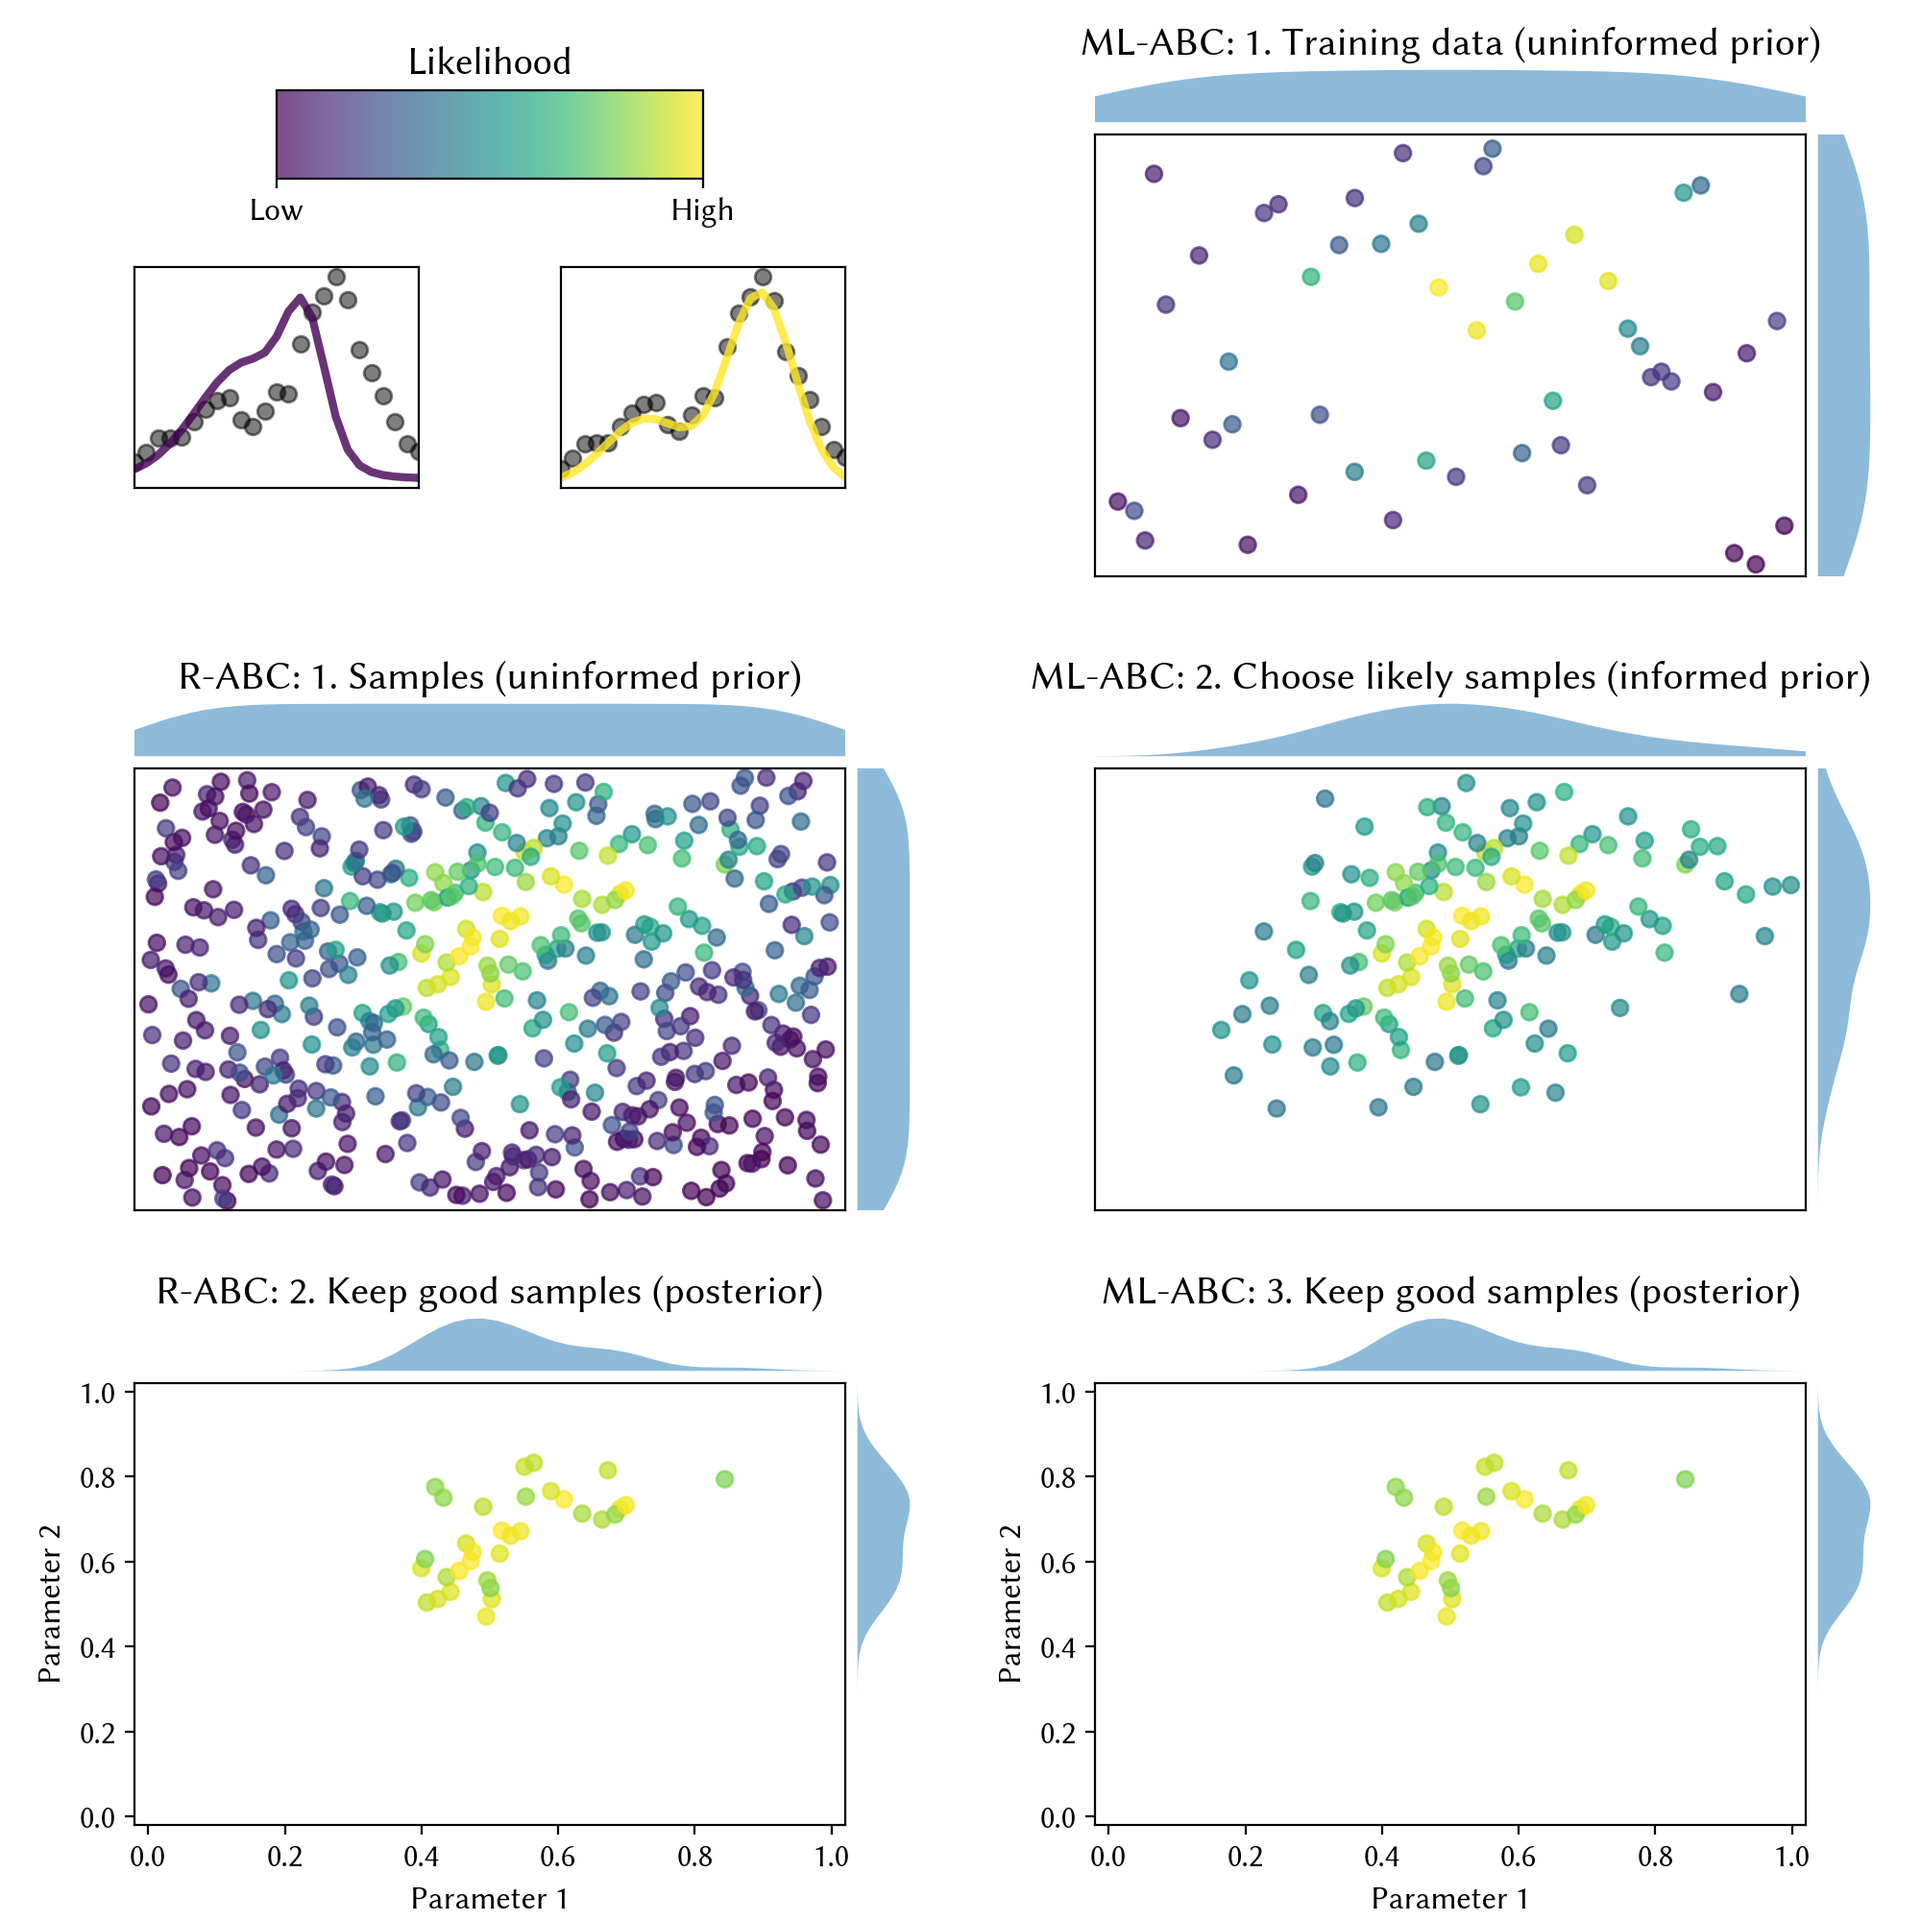
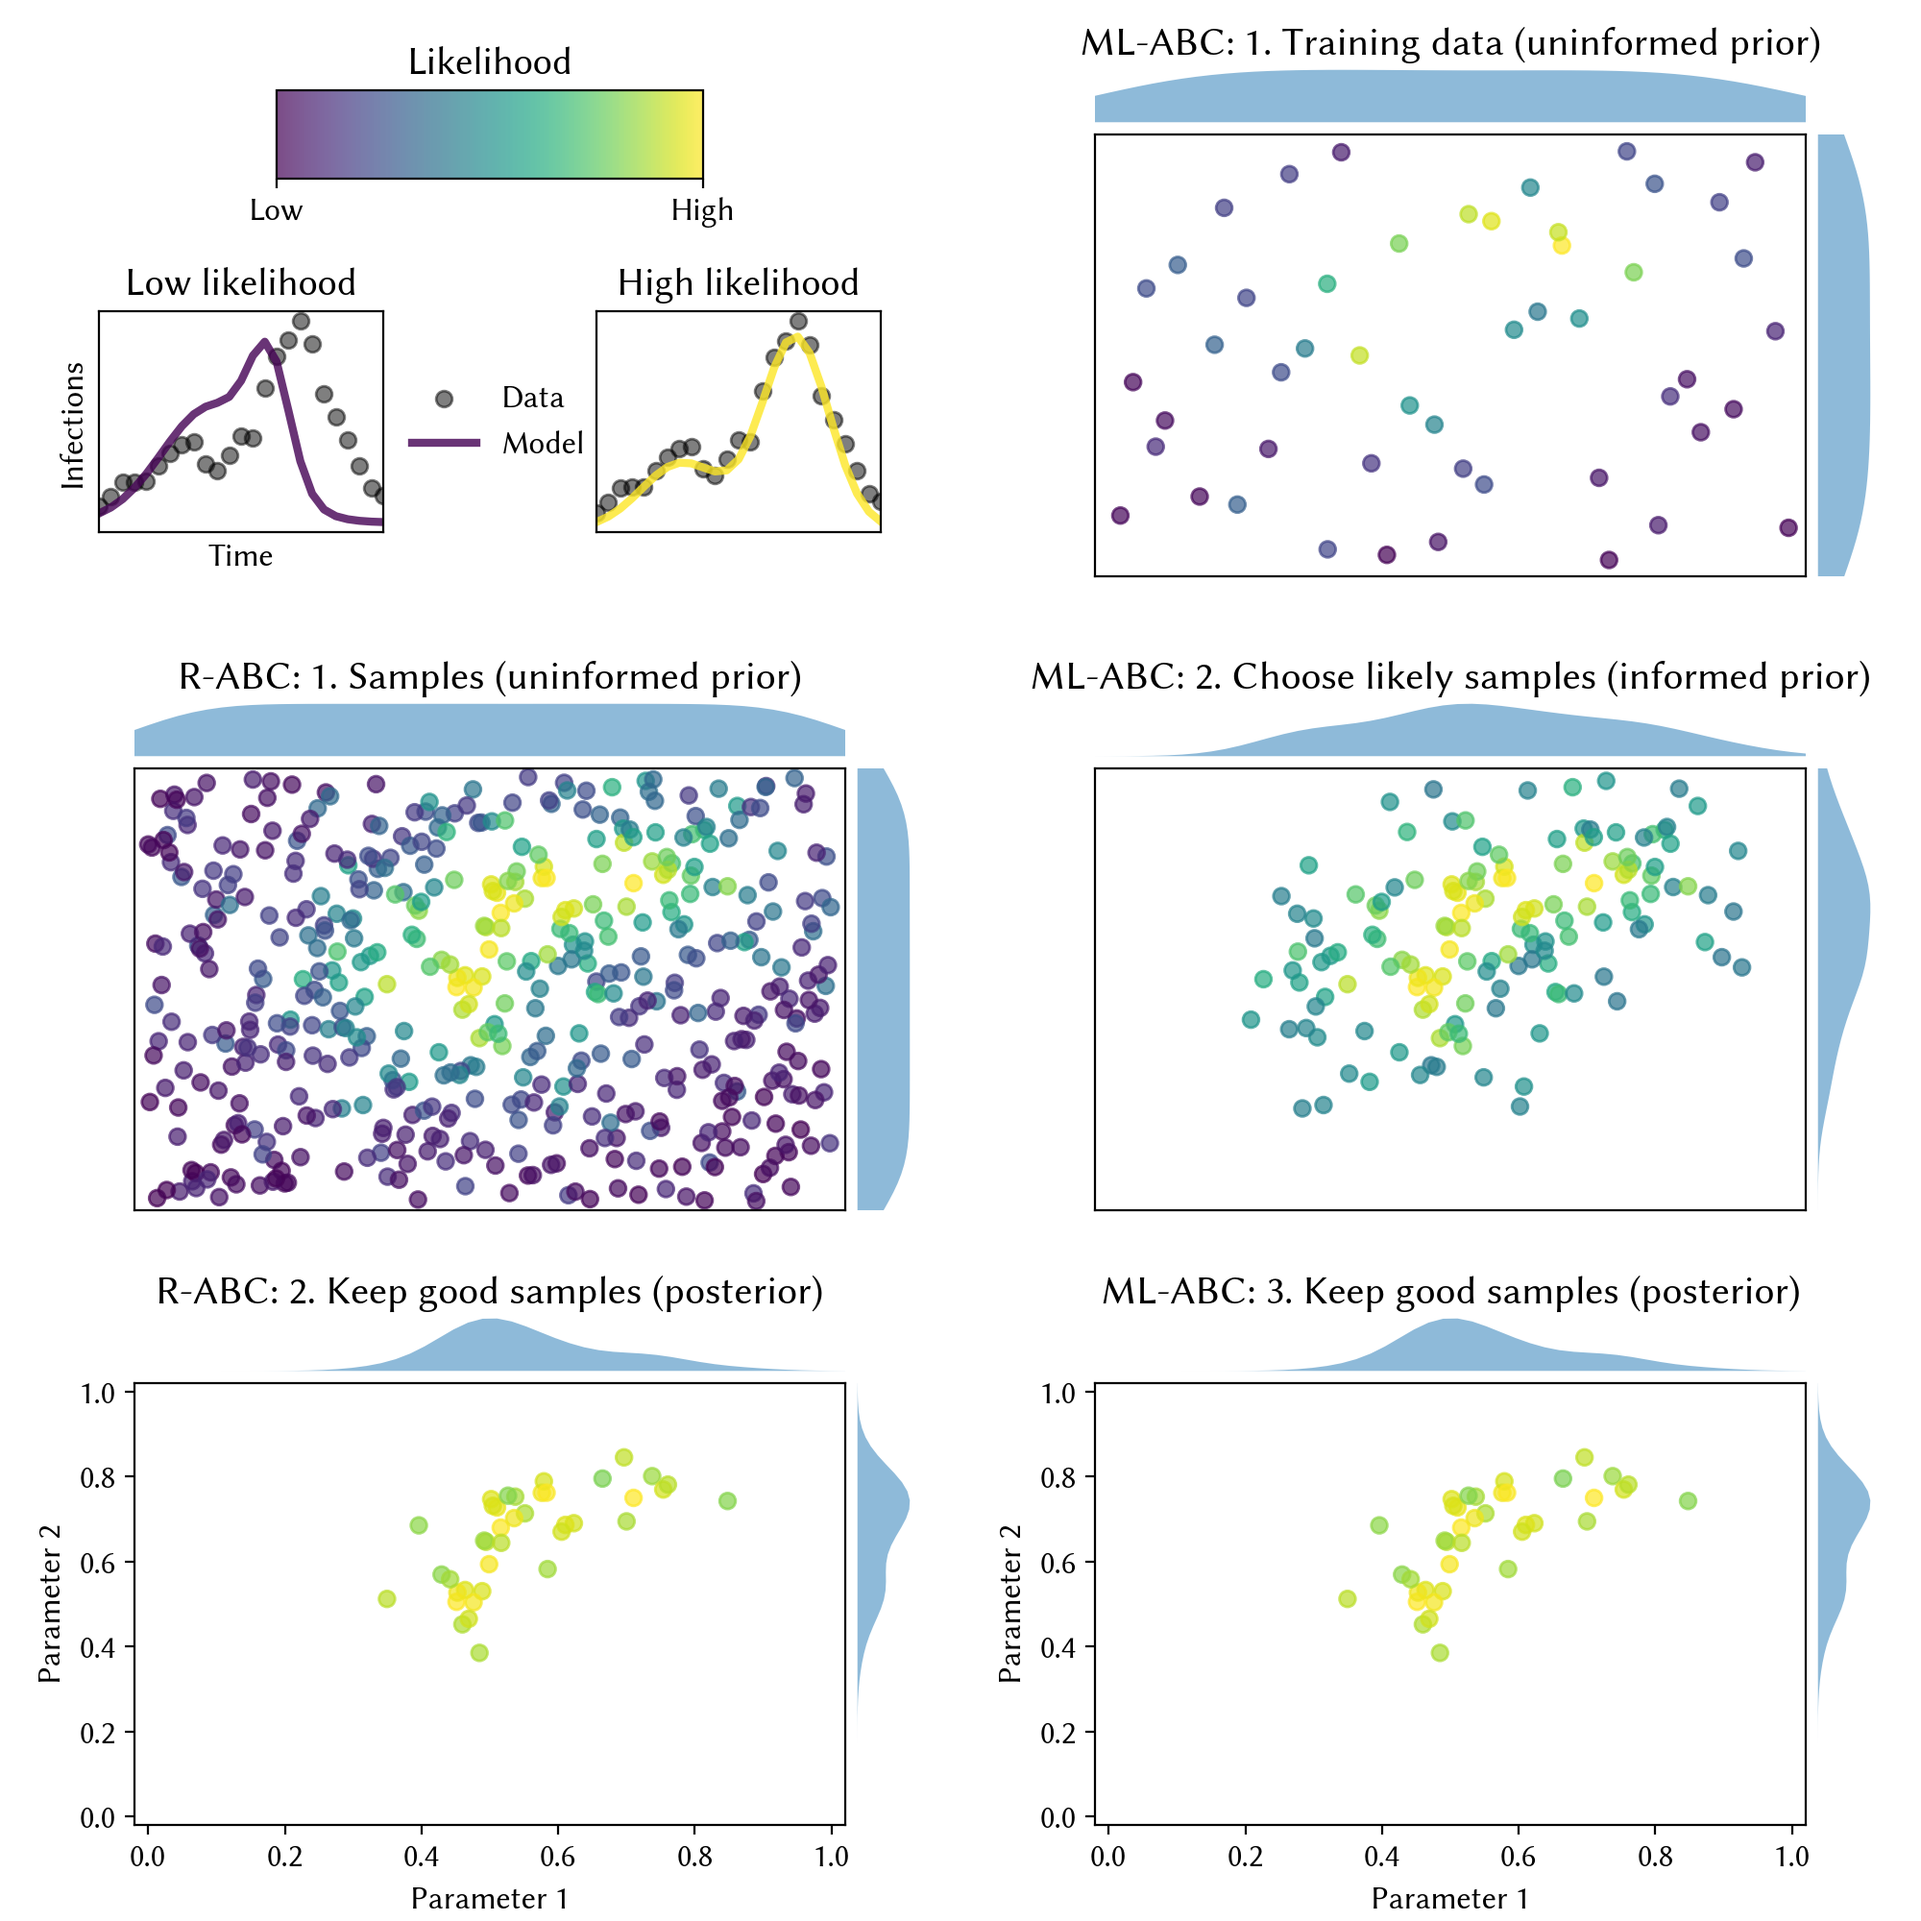
updated

diff --git a/mla-abc-schematic.py b/mla-abc-schematic.py
@@ -138,16 +138,21 @@ time = np.linspace(0, 1, nd)
 data = np.exp(-(((time-0.3)*5)**2)) + 3*np.exp(-(((time-0.7)*6)**2)) + 0.5*np.random.rand(nd)
 bad_fit  = 2*np.exp(-(((time-0.4)*4)**2)) + 2*np.exp(-(((time-0.6)*10)**2))
 good_fit = 1.1*np.exp(-(((time-0.3)*5)**2)) + 3.2*np.exp(-(((time-0.7)*6)**2))
-simax1 = pl.axes([mainxl,           mainy1+hmain*0.2, wmain*0.4, hmain*0.5])
-simax2 = pl.axes([mainxl+wmain*0.6, mainy1+hmain*0.2, wmain*0.4, hmain*0.5])
+simax1 = pl.axes([mainxl-wmain*0.05, mainy1+hmain*0.1, wmain*0.4, hmain*0.5])
+simax2 = pl.axes([mainxl+wmain*0.65, mainy1+hmain*0.1, wmain*0.4, hmain*0.5])
 for ax in [simax1, simax2]:
     ax.set_xticks([], [])
     ax.set_yticks([], [])
-    ax.scatter(time, data, c='k', alpha=0.5)
+    ax.scatter(time, data, c='k', alpha=0.5, label='Data')
     ax.set_xlim([0,1])
 pkw = dict(lw=3, alpha=0.8)
-simax1.plot(time, bad_fit,  c=colors[np.argmin(zpts)], **pkw)
-simax2.plot(time, good_fit, c=colors[np.argmax(zpts)], **pkw)
+simax1.plot(time, bad_fit,  c=colors[np.argmin(zpts)], label='Model', **pkw)
+simax2.plot(time, good_fit, c=colors[np.argmax(zpts)], label='Model', **pkw)
+simax1.set_xlabel('Time')
+simax1.set_ylabel('Infections')
+simax1.legend(frameon=False, bbox_to_anchor=(1.0, 0.8))
+simax1.set_title('Low likelihood')
+simax2.set_title('High likelihood')
 
 
 # ML-ABC training
